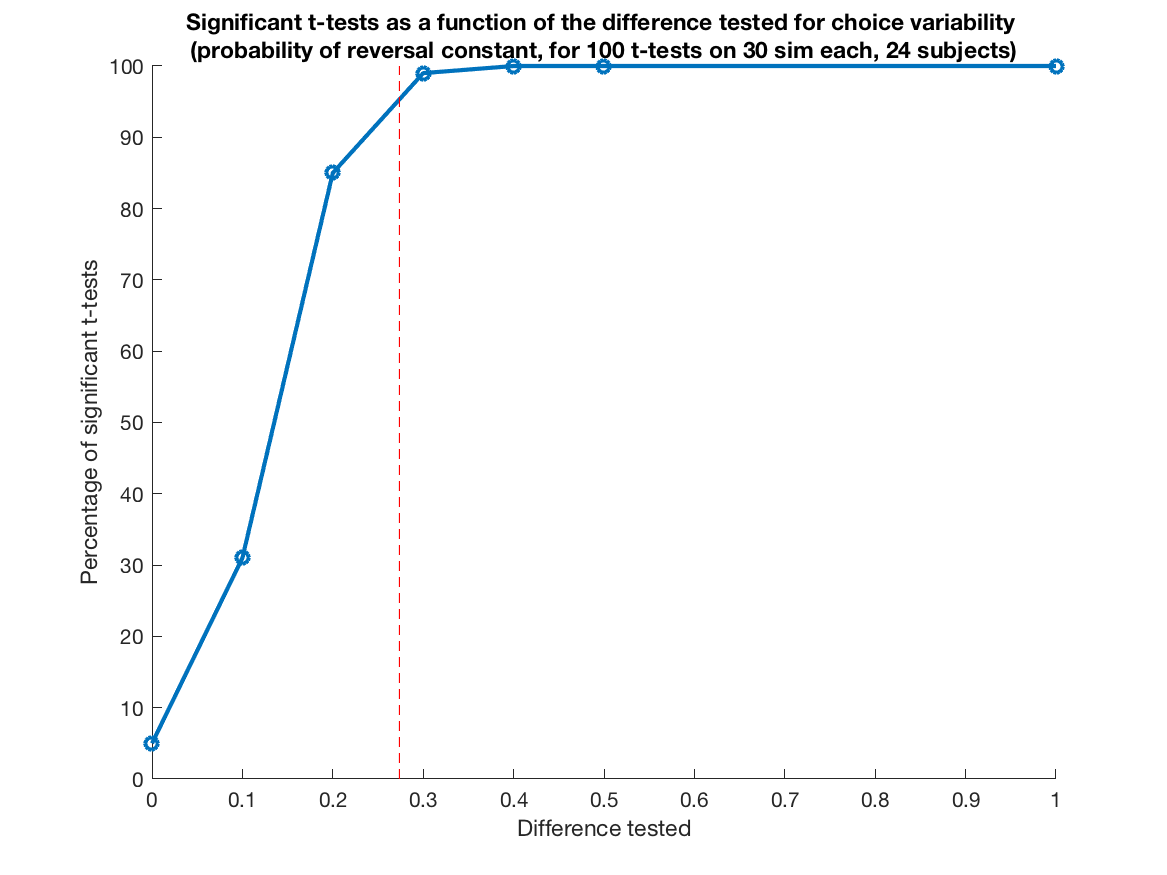
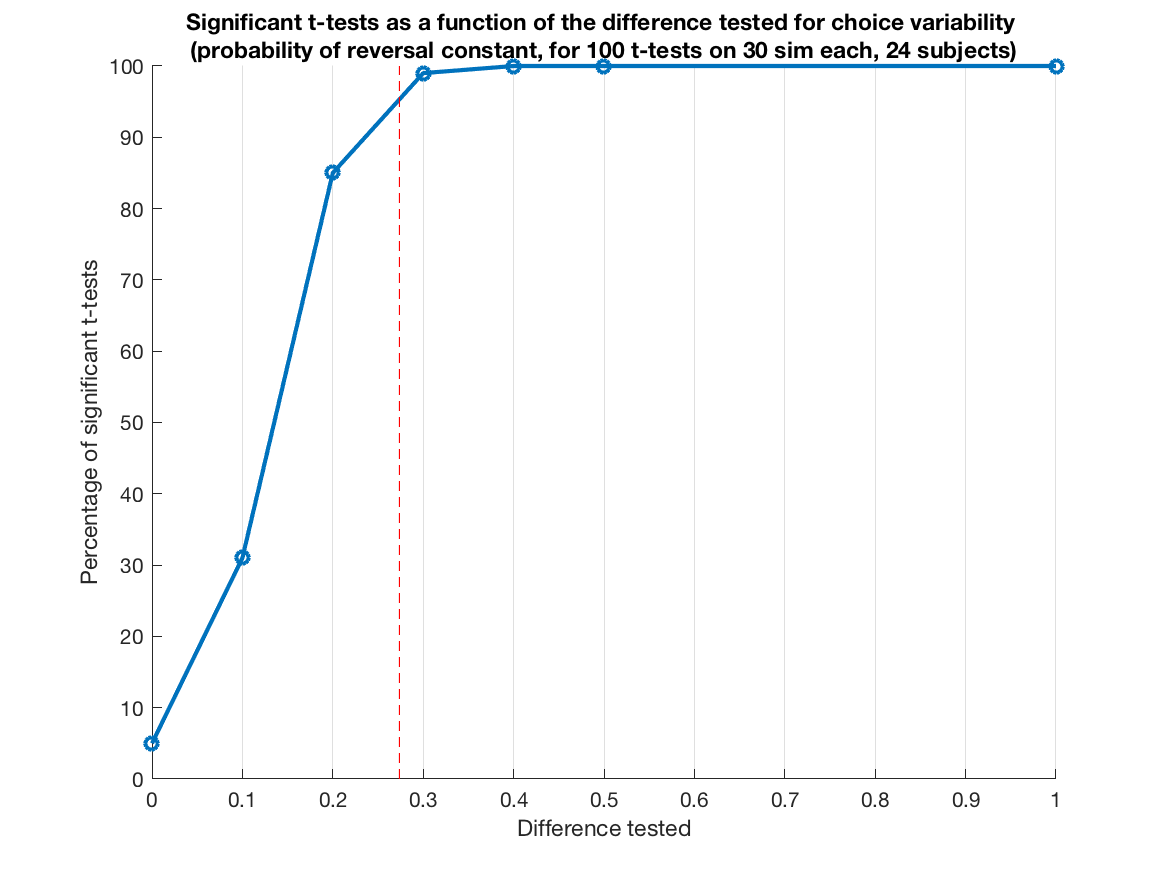
Grid added, bug again?

diff --git a/finalplots_mindiff.m b/finalplots_mindiff.m
@@ -44,7 +44,8 @@ function finalplots_mindiff (f_dout, f_nsubjsubset, f_nsim, f_nttest, f_ndiff, f
         xcst = [f_diffparam_fit f_diffparam_fit]; % to draw a vertical line for the difference between the two tasks in the actual dataset
         ylimline = get(gca,'ylim');               % also works with xline function in MATLAB 2018
         line(xcst, ylimline, 'Color','red','LineStyle','--');
-                
+        
+        set(gca, 'XGrid', 'on', 'YGrid', 'off')
         ylabel('Percentage of significant t-tests');
         xlabel('Difference tested')
         hold off
